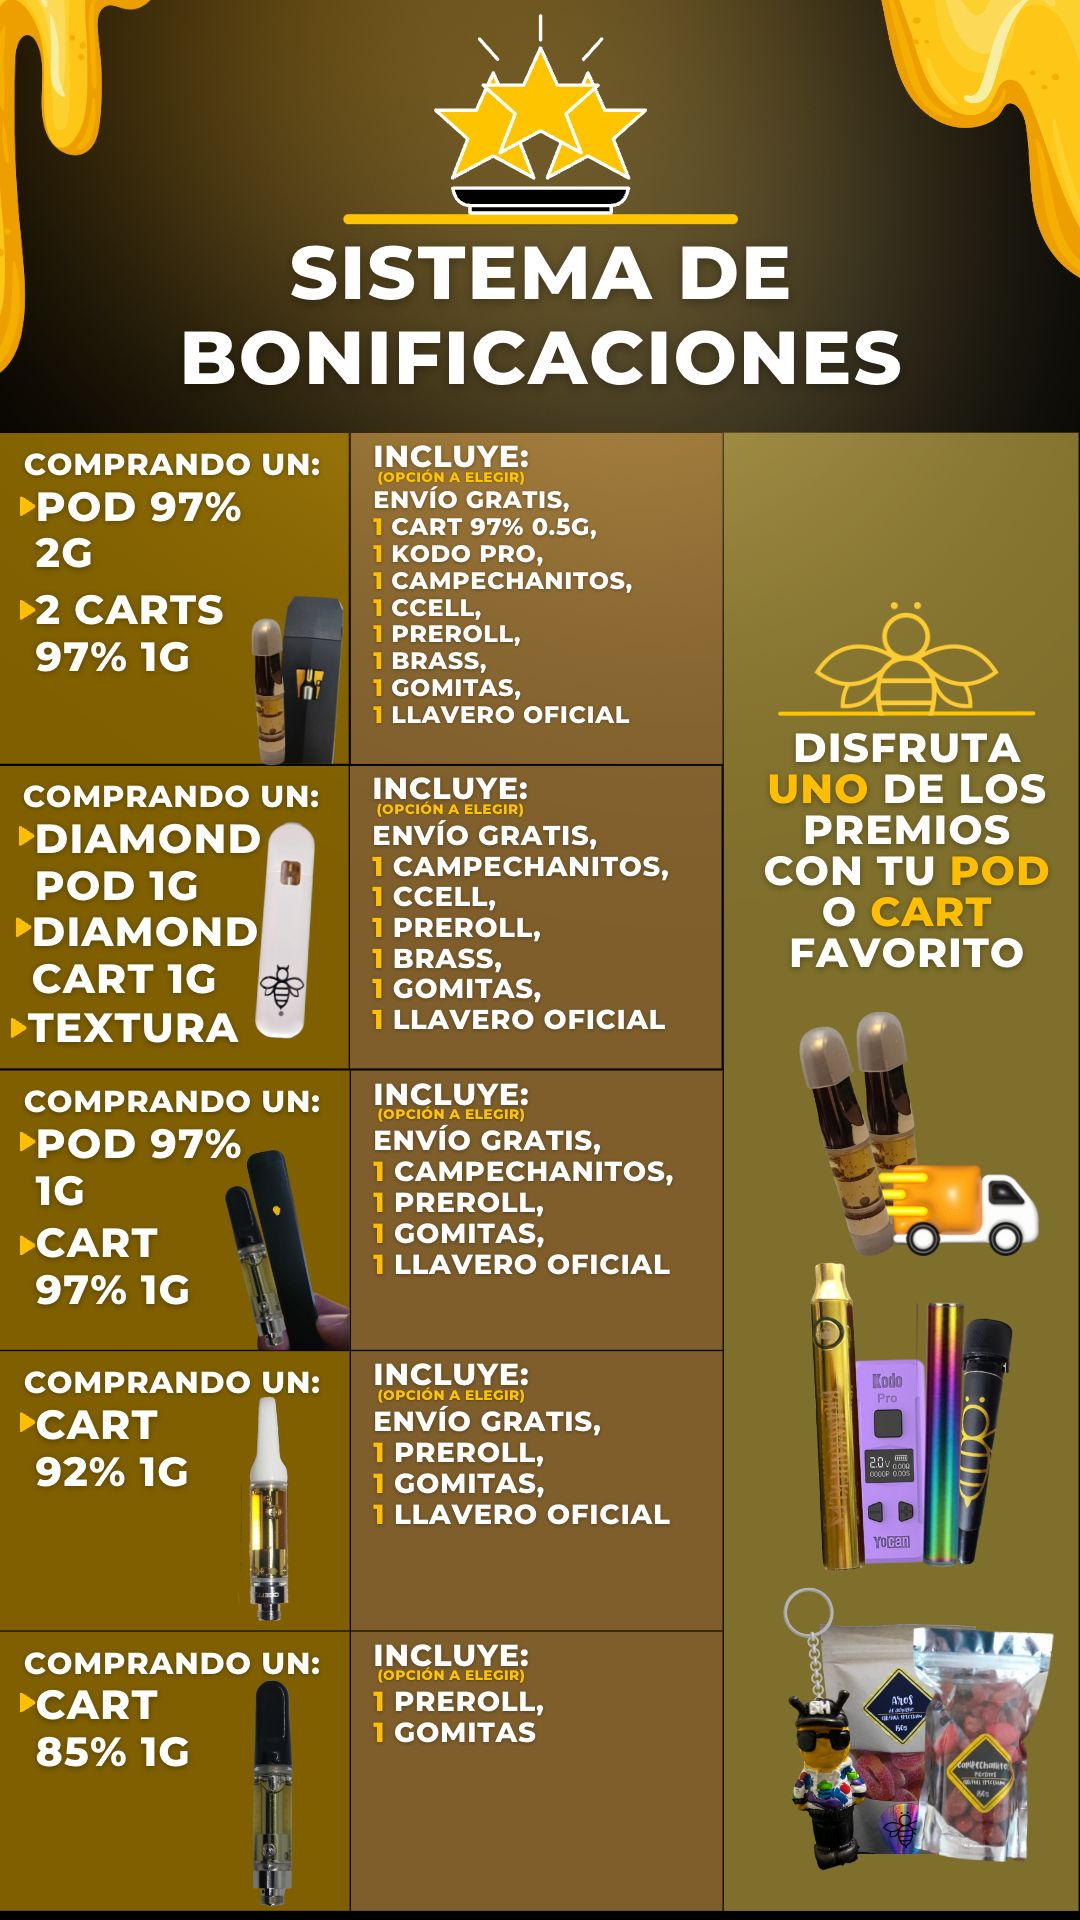
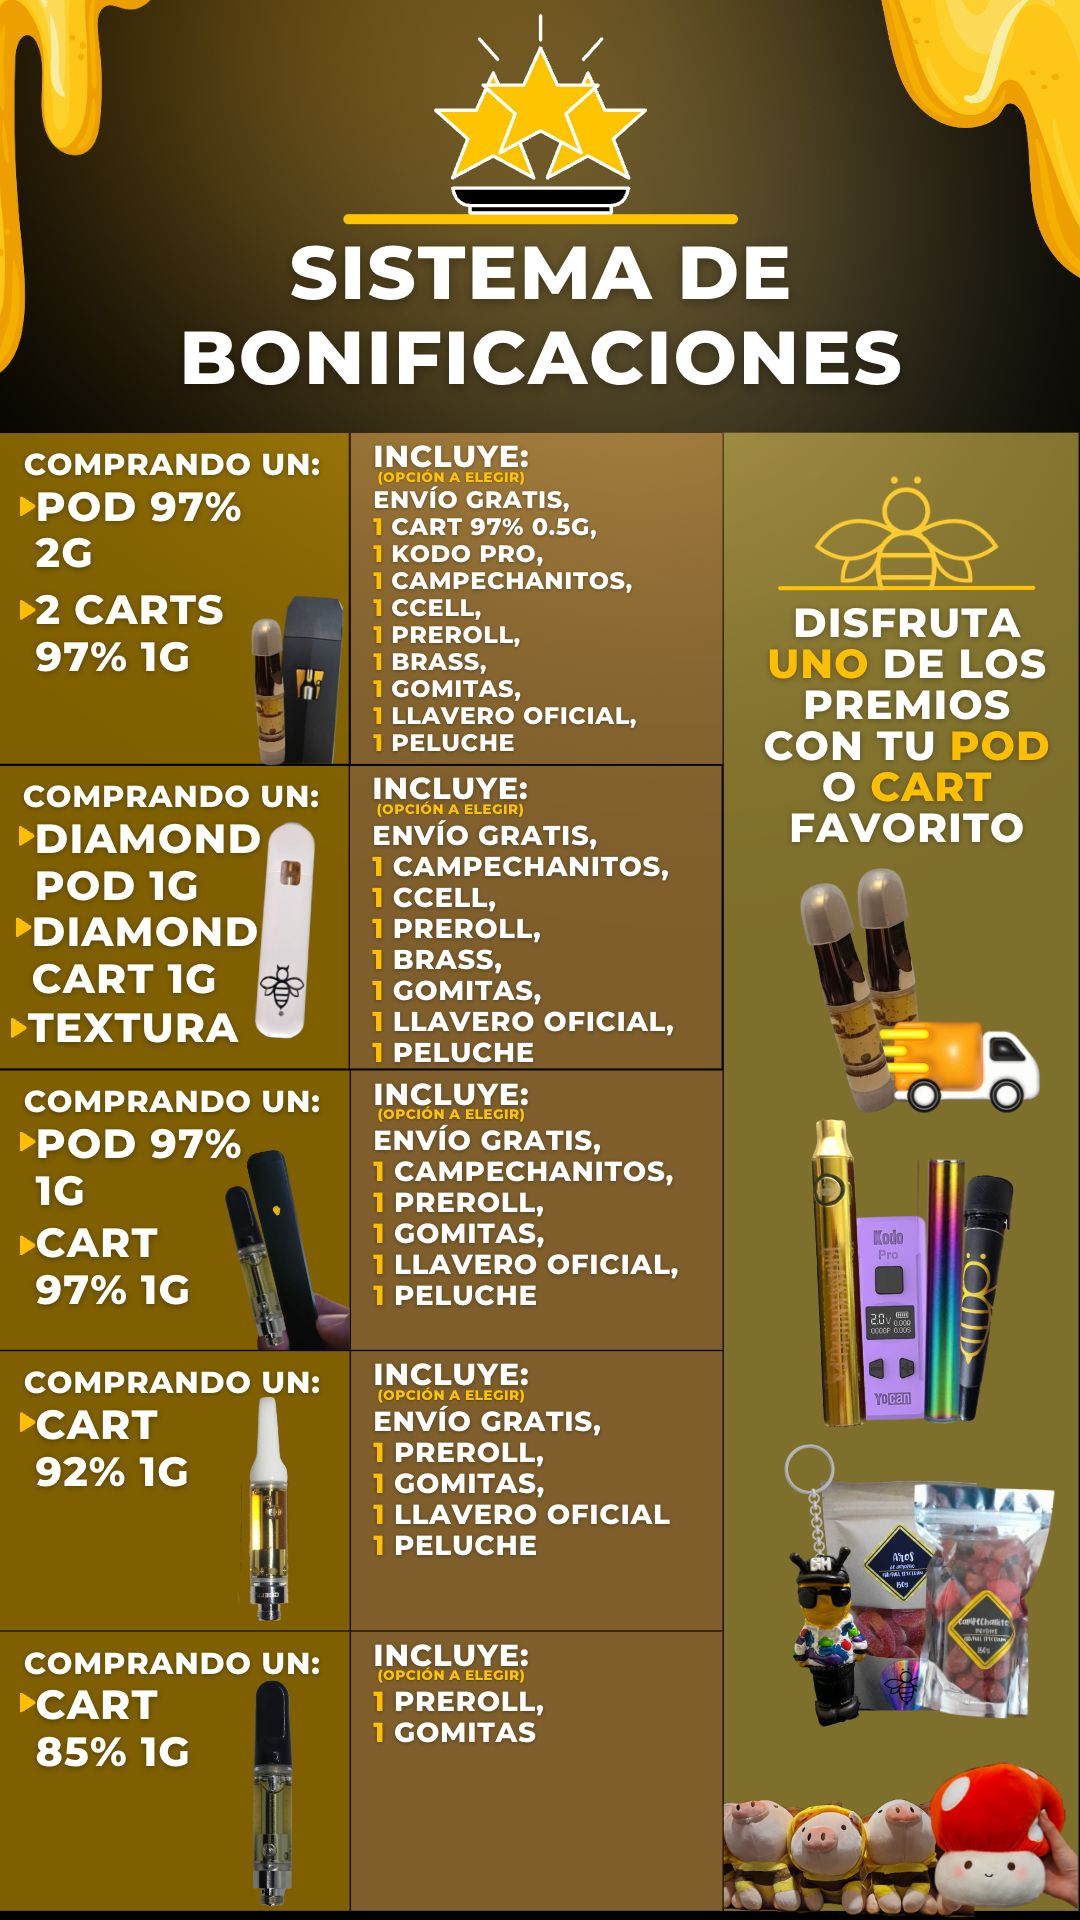
add

diff --git a/css/estilos.css b/css/estilos.css
@@ -585,6 +585,13 @@ img{
     background-repeat: no-repeat;
 }
 
+.bonii{
+    background-image: url("/media/sb.jpeg");
+    background-size: contain;
+    background-position: center;
+    background-repeat: no-repeat;
+}
+
 .promo85{
     background-image: url("/media/SB85.jpg");
     background-size: contain;

diff --git a/home.html b/home.html
@@ -99,7 +99,7 @@
 
 
            
-            <article class="slide boni">
+            <article class="slide bonii">
                 <a href="https://wa.me/5620388381" target="_blank" class="whatsapp">
                     <i class="fa-brands fa-whatsapp"></i>
                   </a>
